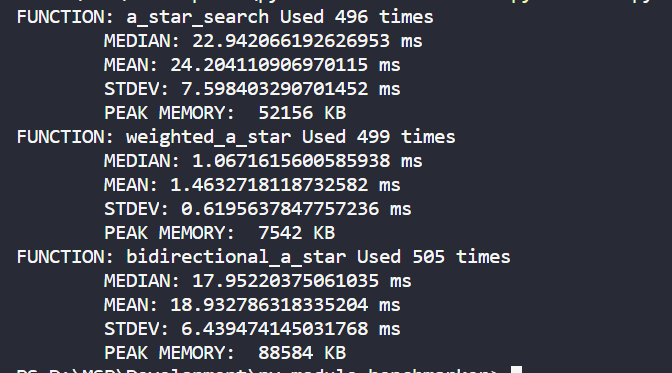
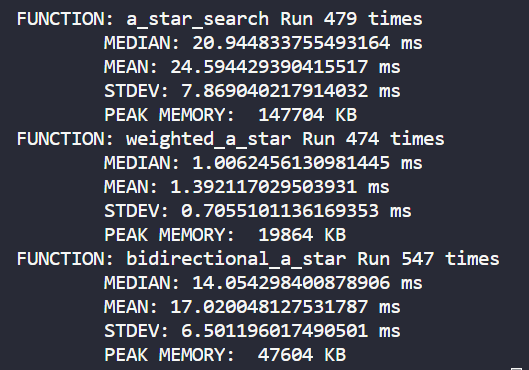
Updating README for iteration options

diff --git a/README.md b/README.md
@@ -59,9 +59,19 @@ Note:
 python run.py
 ```
 
-The benchmarking would run the functions around 500 times randomly. Hence it would take a few seconds to a couple of minutes depending on the complexity or number of functions. 
+#### Configuring iterations 
+The default program is configured to run 500 times. Hence it might take a few seconds to run the program. However, if you program is too large or you have lots of functions to compare the benchmark can slow down significantly. Hence, the option to define the number of iterations can also be specified. 
+
+You can specify the number of iterations in the terminal. 
+```python 
+python run.py 10
+```
+
+**Important:** It is highly advised that you don't go under 10 iterations to avoid any internal biases. 
+
 
 After running you would see an output printed on Command Line like this. 
 
 ![Results](img/result.png)
+
 
